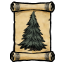
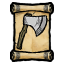
1

diff --git a/data/certificate/data.js b/data/certificate/data.js
@@ -3,10 +3,25 @@
     category: "证书",
     child: [
       {
+        name: "证书",
+        image: "certificates.png",
+        description: `
+被传送来永恒大陆的冒险家们不同的考验
+
+像往常那样去冒险吧，查理就在身边
+
+当符合查理考验条件时，查理会来到冒险家身边使用魔法生成一张考验证书
+
+每种考验证书对冒险者仅一次机会，请务必妥善保管好证书，不要遗失、擦除、烧掉了
+
+每种考验证书仅在冒险家签上字后才算正式与查理建立契约
+            `,
+      },
+      {
         name: "空证书",
         image: "certificate_blank.png",
         code: "certificate_blank",
-        tech: "制图桌",
+        tech: "无",
         recipe: "莎草纸*1+羽毛笔*1",
         description: `
 一张等待被书写的空证书
@@ -16,10 +31,10 @@
         name: "读者证书",
         image: "certificate_book.png",
         code: "certificate_book",
-        tech: "制图桌",
-        recipe: "莎草纸*1+羽毛笔*1+恶魔燃料*1",
         description: `
 注：装备前要使用羽毛笔签上自己的名字
+
+获取：首次对书籍感兴趣时（检查），查理会出现给予待完成的读者证书
 
 读一次书降5耐久，并记录下读的书，再读已经记录的书仅降1耐久
 
@@ -34,10 +49,10 @@
         name: "竞技证书",
         image: "certificate_combat.png",
         code: "certificate_combat",
-        tech: "制图桌",
-        recipe: "莎草纸*1+羽毛笔*1+狗牙*1",
         description: `
 注：装备前要使用羽毛笔签上自己的名字
+
+获取：首次击杀怪物时，查理会出现给予待完成的竞技证书
 
 仅击杀头目（有epic标签的boss）时才会降耐久，当boss死亡时，以boss为中心范围内所有装备竞技证书的玩家都算击杀者
 
@@ -52,10 +67,10 @@
         name: "厨师证书",
         image: "certificate_cook.png",
         code: "certificate_cook",
-        tech: "制图桌",
-        recipe: "莎草纸*1+羽毛笔*1+肉丸*1",
         description: `
 注：装备前要使用羽毛笔签上自己的名字
+
+获取：首次做饭时，查理会出现给予待完成的厨师证书
 
 首次收获自己烹饪的料理时可降5耐久，再次收获相同料理仅降1耐久
 
@@ -66,10 +81,10 @@
         name: "钓鱼证书",
         image: "certificate_fish.png",
         code: "certificate_fish",
-        tech: "制图桌",
-        recipe: "莎草纸*1+羽毛笔*1+淡水鱼*1",
         description: `
 注：装备前要使用羽毛笔签上自己的名字
+
+获取：首次钓上淡水鱼时，查理会出现给予待完成的钓鱼证书
 
 青蛙池塘，蚊子池塘，绿洲，洞穴池塘，选3种池塘每个池塘钓10条鱼解锁
 
@@ -80,7 +95,7 @@
         name: "渔夫证书",
         image: "certificate_oceanfish.png",
         code: "certificate_oceanfish",
-        tech: "制图桌",
+        tech: "无",
         recipe: "羽毛笔*1+钓鱼证书*1",
         description: `
 注：装备前要使用羽毛笔签上自己的名字
@@ -91,13 +106,13 @@
             `,
       },
       {
-        name: "手工证书",
-        image: "certificate_hand.png",
-        code: "certificate_hand",
-        tech: "制图桌",
-        recipe: "莎草纸*1+羽毛笔*1+蜘蛛丝*1",
+        name: "工程师证书",
+        image: "certificate_engineer.png",
+        code: "certificate_engineer",
         description: `
 注：装备前要使用羽毛笔签上自己的名字
+
+获取：首次制作任意物品时，查理会出现给予待完成的工程师证书
 
 首次制作物品可降5耐久，再次制作已经记录的物品降1耐久
 
@@ -108,10 +123,10 @@
         name: "开荒证书",
         image: "certificate_till.png",
         code: "certificate_till",
-        tech: "制图桌",
-        recipe: "莎草纸*1+羽毛笔*1+锄头*1",
         description: `
 注：装备前要使用羽毛笔签上自己的名字
+
+获取：首次耕地时，查理会出现给予待完成的开荒证书
 
 锄100次地后解锁
 
@@ -136,10 +151,10 @@
         name: "采矿证书",
         image: "certificate_mine.png",
         code: "certificate_mine",
-        tech: "制图桌",
-        recipe: "莎草纸*1+羽毛笔*1+金块*1",
         description: `
 注：装备前要使用羽毛笔签上自己的名字
+
+获取：首次开采石头时，查理会出现给予待完成的采矿证书
 
 每次使用镐子降1耐久
 
@@ -150,10 +165,10 @@
         name: "伐木证书",
         image: "certificate_chop.png",
         code: "certificate_chop",
-        tech: "制图桌",
-        recipe: "莎草纸*1+羽毛笔*1+木材*1",
         description: `
 注：装备前要使用羽毛笔签上自己的名字
+
+获取：首次砍倒树时，查理会出现给予待完成的伐木证书
 
 每次使用斧子降1耐久
 
@@ -218,10 +233,10 @@
         name: "驯兽师证书",
         image: "certificate_tame.png",
         code: "certificate_tame",
-        recipe: "莎草纸*1+羽毛笔*1+牛角*1",
-        tech: "制图桌",
         description: `
 注：装备前要使用羽毛笔签上自己的名字
+
+获取：首次将牛铃与牛建立联系时，查理会出现给予待完成的驯兽师证书
 
 装备着未解锁的驯兽师证书，自己驯的牛达到100%驯服度时自动解锁
 
